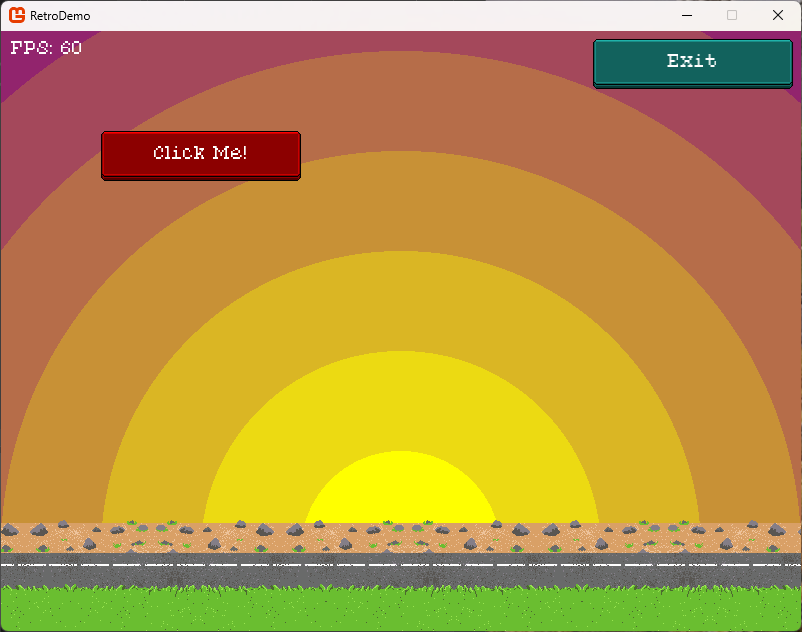
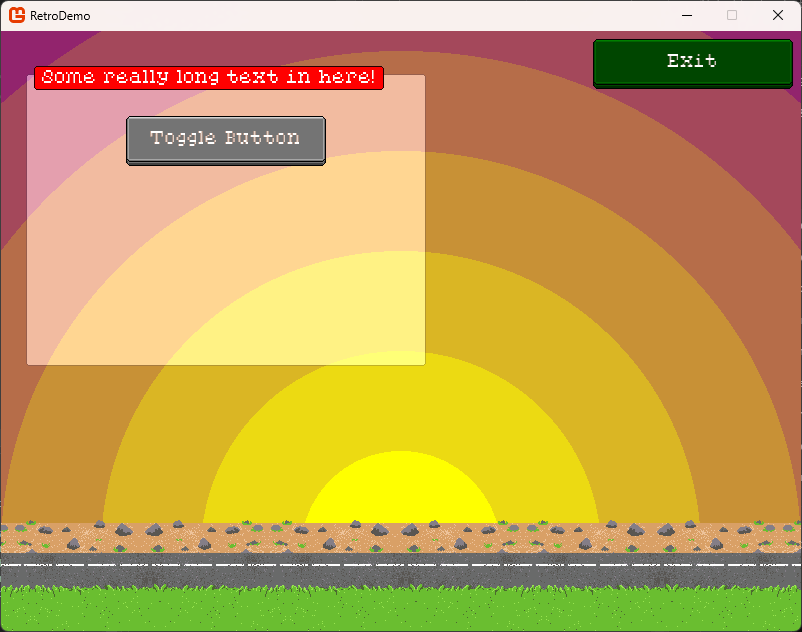
chore: screenshot, and readme update.

diff --git a/RetroDemo/Game.cs b/RetroDemo/Game.cs
@@ -29,9 +29,9 @@ namespace RetroDemo
         {
             _graphics = new GraphicsDeviceManager(this);
             var display = GraphicsAdapter.DefaultAdapter.CurrentDisplayMode;
-            _graphics.PreferredBackBufferWidth = display.Width;
-            _graphics.PreferredBackBufferHeight = display.Height;
-            _graphics.IsFullScreen = true;
+            _graphics.PreferredBackBufferWidth = 800; // display.Width;
+            _graphics.PreferredBackBufferHeight = 600; // display.Height;
+            _graphics.IsFullScreen = false;
             _graphics.ApplyChanges();
 
             Content.RootDirectory = "Content";
@@ -64,8 +64,8 @@ namespace RetroDemo
             _testContainer = new RetroSpriteGroupContainer(
                 "TestGroupContainer",
                 "Some really long text in here!",
-                new Point(800, 450),
-                new Point(400, 400),
+                new Point(25, 35),
+                new Point(400, 300),
                 borderTexture: new NineSliceTexture2D(
                     Texture2D.FromFile(GraphicsDevice, "Content/Textures/surface.png"),
                     new NineSliceTextureOptions
@@ -86,7 +86,7 @@ namespace RetroDemo
                         RightMargin = 4
                     }),
                 font: _font,
-                borderTint: Color.Red,
+                borderTint: new Color(Color.LightGray, 0.5f),
                 labelTint: Color.Red,
                 foregroundColor: Color.White);
 
@@ -236,7 +236,7 @@ namespace RetroDemo
 
             //GraphicsDevice.Clear(Color.CornflowerBlue);
 
-            _spriteBatch?.Begin();
+            _spriteBatch?.Begin(SpriteSortMode.Deferred, BlendState.AlphaBlend);
 
             _radialGradientTexture?.Draw(
                 GraphicsDevice.Viewport.Width,

diff --git a/RetroLibrary/RetroSpriteBase.cs b/RetroLibrary/RetroSpriteBase.cs
@@ -212,7 +212,7 @@ public partial class RetroSpriteBase : ObservableObject, IDisposable
         var originalRenderTargets = graphicsDevice.GetRenderTargets();
         graphicsDevice.SetRenderTarget(renderTarget);
         graphicsDevice.Clear(BackgroundColor);
-        spriteBatch.Begin();
+        spriteBatch.Begin(SpriteSortMode.Deferred, BlendState.NonPremultiplied);
         OnRedraw(spriteBatch, Point.Zero);
         spriteBatch.End();
         graphicsDevice.SetRenderTargets(originalRenderTargets);

diff --git a/RetroLibrary/RetroSpriteContainer.cs b/RetroLibrary/RetroSpriteContainer.cs
@@ -95,7 +95,7 @@ public partial class RetroSpriteContainer : RetroSpriteBase
         var originalRenderTargets = graphicsDevice.GetRenderTargets();
         graphicsDevice.SetRenderTarget(renderTarget);
         graphicsDevice.Clear(Color.Transparent);
-        spriteBatch.Begin();
+        spriteBatch.Begin(SpriteSortMode.Deferred, BlendState.AlphaBlend);
 
         foreach (var currentChild in Children)
         {

diff --git a/README.md b/README.md
@@ -1,24 +1,100 @@
-## RetroDemo
+## RetroDemo
 
 This is a rough little project containing some proof of concept code for creating a retro 8bit style UI using MonoGame.
 
 ### Controls
 
-* Button
-  - Utilising 9-slice scaling for flexible sizing
-  - Supports hover and click states
+#### Core Controls
+
+* **RetroSpriteBase**
+  - Base class for all retro UI controls
+  - Features buffered/unbuffered rendering modes
+  - Mouse interaction support (hover, click, press states)
+  - Events: `Clicking`, `Released`, `Clicked`
+  - Property change tracking with automatic redraw
+  - Configurable position, size, background/foreground colors, and fonts
+
+* **RetroSpriteSmartButton**
+  - Enhanced button control extending RetroSpriteBase
+  - Utilizes 9-slice scaling for flexible sizing
+  - Supports hover and click states with visual feedback
+  - Toggle button functionality with `IsToggleButton` property
+  - Customizable up/down textures and tint colors
+  - Text rendering with configurable fonts
   - Events for click handling
-* Linear Retro Gradient
-  - 2 colour support 
-  - Customisable gradient stop count for more authentic 8bit look.
-  - Customisable direction (horizontal/vertical/angled)
-* Radial Retro Gradient
-  - 2 colour support 
-  - Customisable gradient stop count for more authentic 8bit look.
-  - Customisable center point and radius
-* Parallax Scroller
-  - Customisable layers with individual speed settings
-  - Only meant for simple horizontal scrolling layers, not as a game background system with horizontal movement.
+
+#### Container Controls
+
+* **RetroSpriteContainer**
+  - Container control for grouping multiple child sprites
+  - Automatic child rendering and mouse input distribution
+  - Offset mouse coordinates for child controls
+  - Renders all children to an internal texture for performance
+
+* **RetroSpriteGroupContainer**
+  - Advanced container with border and label support
+  - Customizable border textures using 9-slice scaling
+  - Group label with background texture support
+  - Configurable inner margins for child positioning
+  - Border and label tinting options
+  - Adjustable label offset and border margins
+
+#### Texture Generation
+
+* **NineSliceTexture2D**
+  - 9-slice texture scaling system for UI elements
+  - Configurable margin settings via `NineSliceTextureOptions`
+  - Properties: `TopMargin`, `LeftMargin`, `BottomMargin`, `RightMargin`
+  - Enables scalable textures without distortion
+  - Cached texture generation for performance
+
+* **Linear Retro Gradient**
+  - 2 colour linear gradient support with retro styling
+  - Configurable via `LinearRetroGradientOptions`:
+    - `FromPoint` and `ToPoint` for direction control
+    - `FromColor` and `ToColor` for gradient colors
+    - `GradientStops` for authentic 8-bit quantized appearance (default: 8)
+  - Supports any angle and direction
+  - Cached rendering for performance optimization
+
+* **Radial Retro Gradient**  
+  - 2 colour radial gradient support with retro styling
+  - Configurable via `RadialRetroGradientOptions`:
+    - `CentrePoint` for gradient center positioning
+    - `Radius` for gradient size control
+    - `FromColor` and `ToColor` for gradient colors  
+    - `GradientStops` for authentic 8-bit quantized appearance (default: 8)
+  - Cached rendering for performance optimization
+
+#### Scrolling Effects
+
+* **MiniParallaxScroller**
+  - Multi-layer parallax scrolling system
+  - Configurable via `MiniParallaxScrollerOptions`:
+    - `ViewportWidth` and `ViewportHeight` for display area
+    - `Layers` collection for multiple scrolling layers
+  - Each layer (`MiniParallaxScrollerLayer`) supports:
+    - `TexturePath` for layer texture
+    - `ScrollSpeed` for individual layer speed control
+    - `YOffset` for vertical positioning
+  - Optimized for horizontal scrolling effects
+  - Automatic texture wrapping and seamless scrolling
+
+#### Utility Extensions
+
+* **ColorExtensions**
+  - Helper methods for color manipulation and gradient generation
+  - Supports retro-style color quantization
+  - Gradient color calculation utilities
+
+### Key Features
+
+- **Performance Optimized**: Buffered rendering with automatic cache invalidation
+- **Mouse Interaction**: Full mouse support with hover and click states  
+- **Modular Design**: Extensible base classes for custom controls
+- **Retro Styling**: Authentic 8-bit appearance with quantized gradients
+- **Flexible Texturing**: 9-slice scaling and gradient generation
+- **Container System**: Hierarchical UI layout with automatic input handling
 
 ### Screenshots
 
